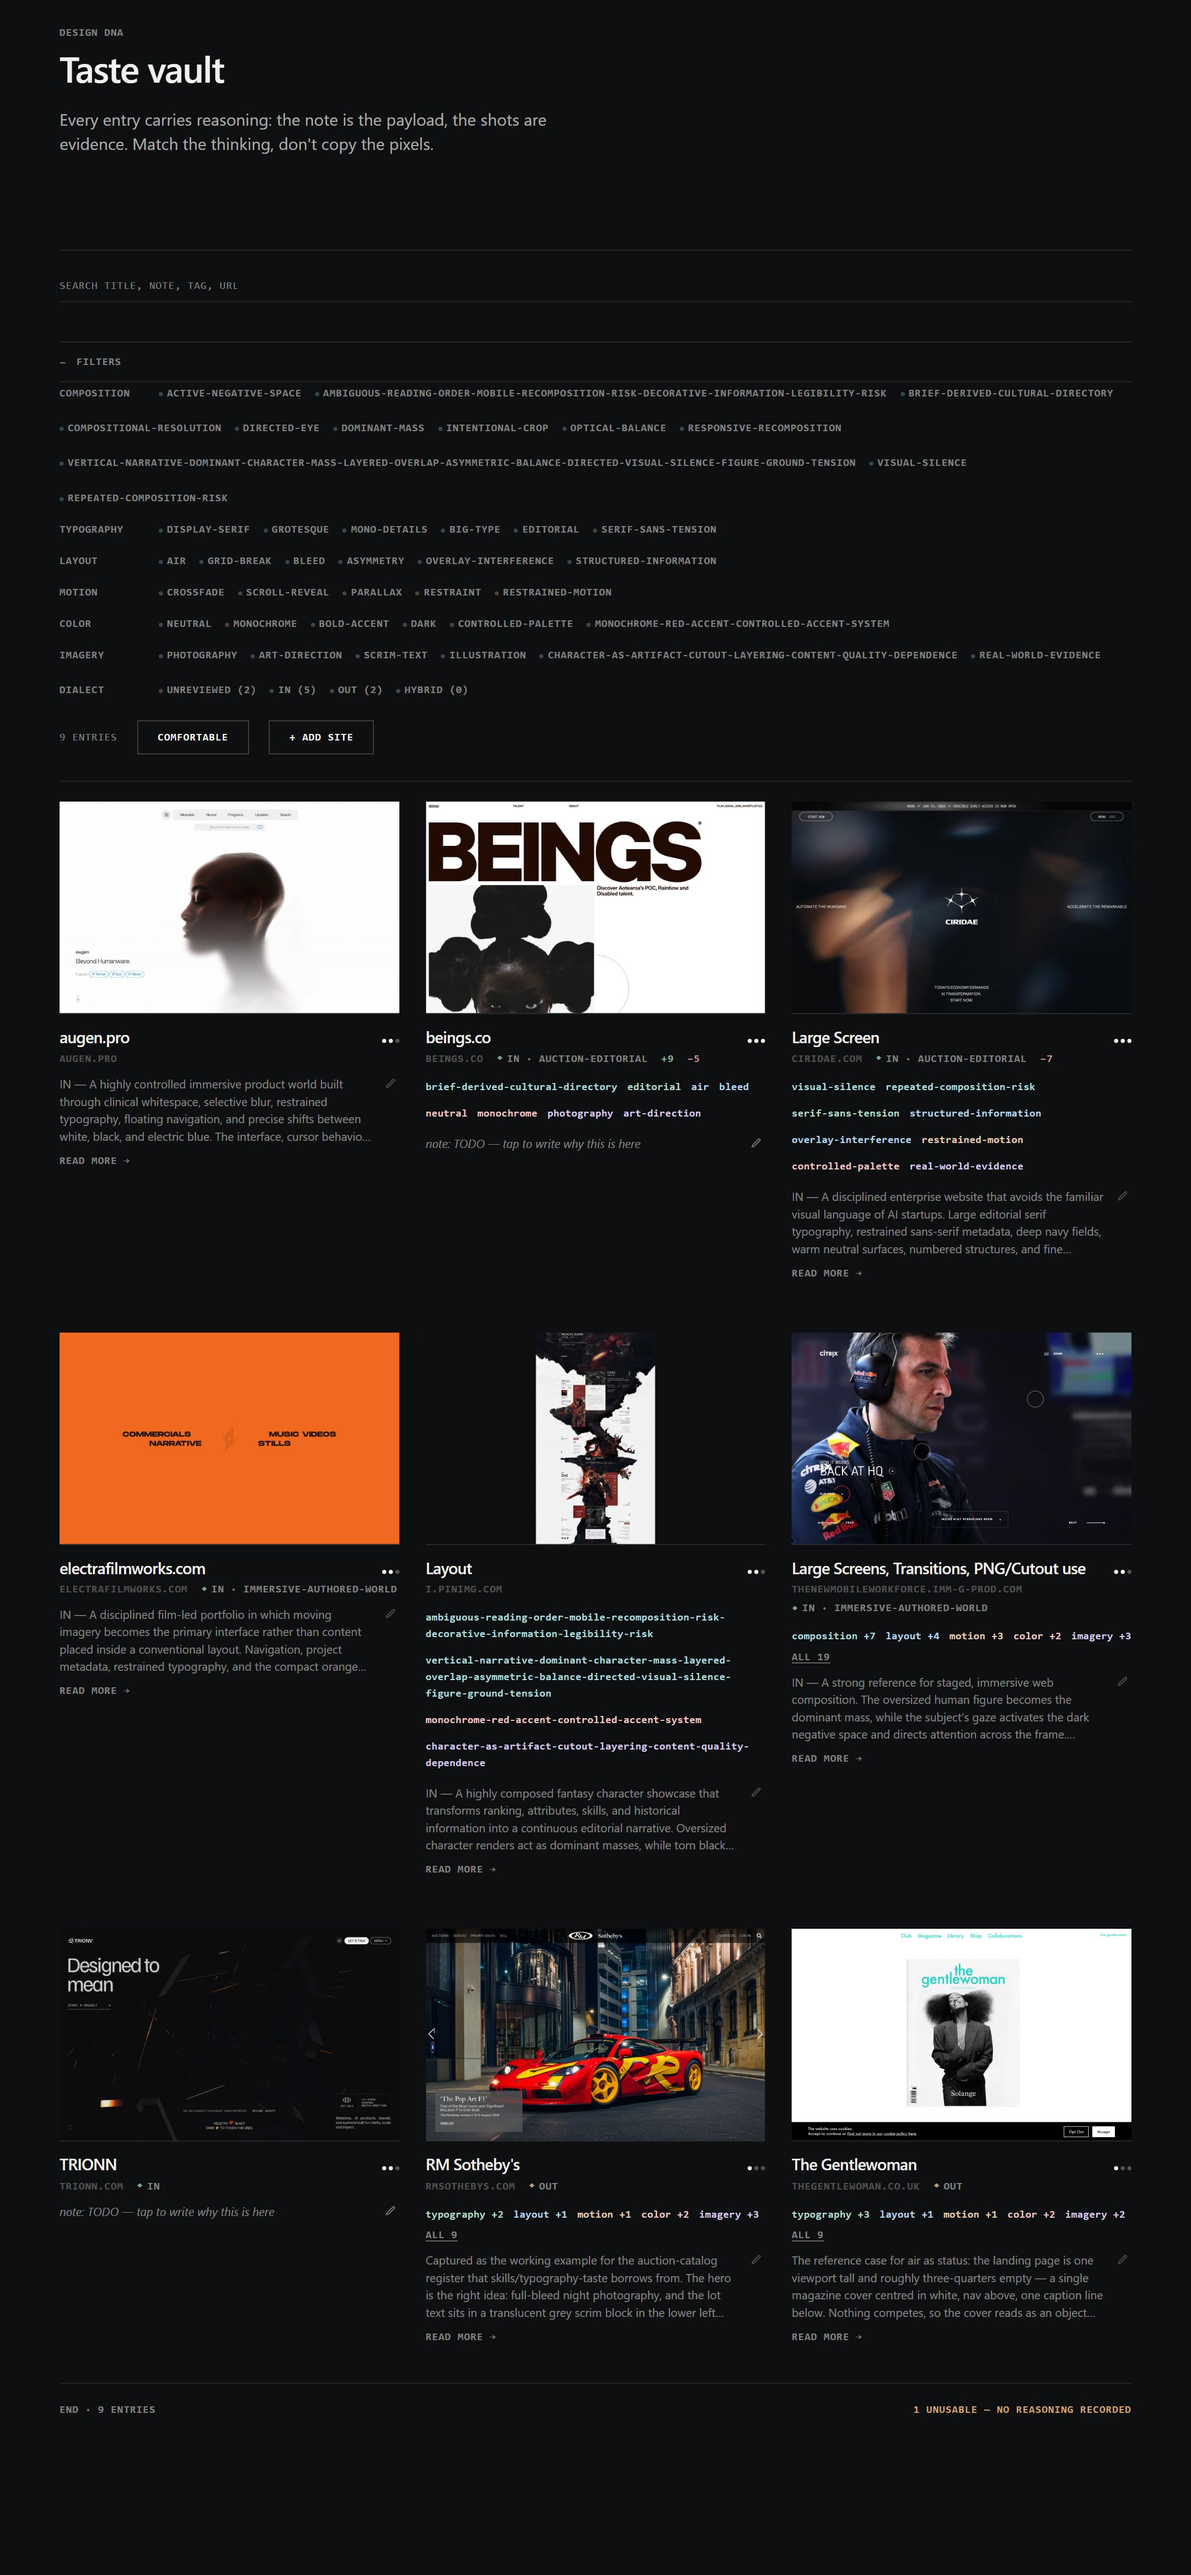
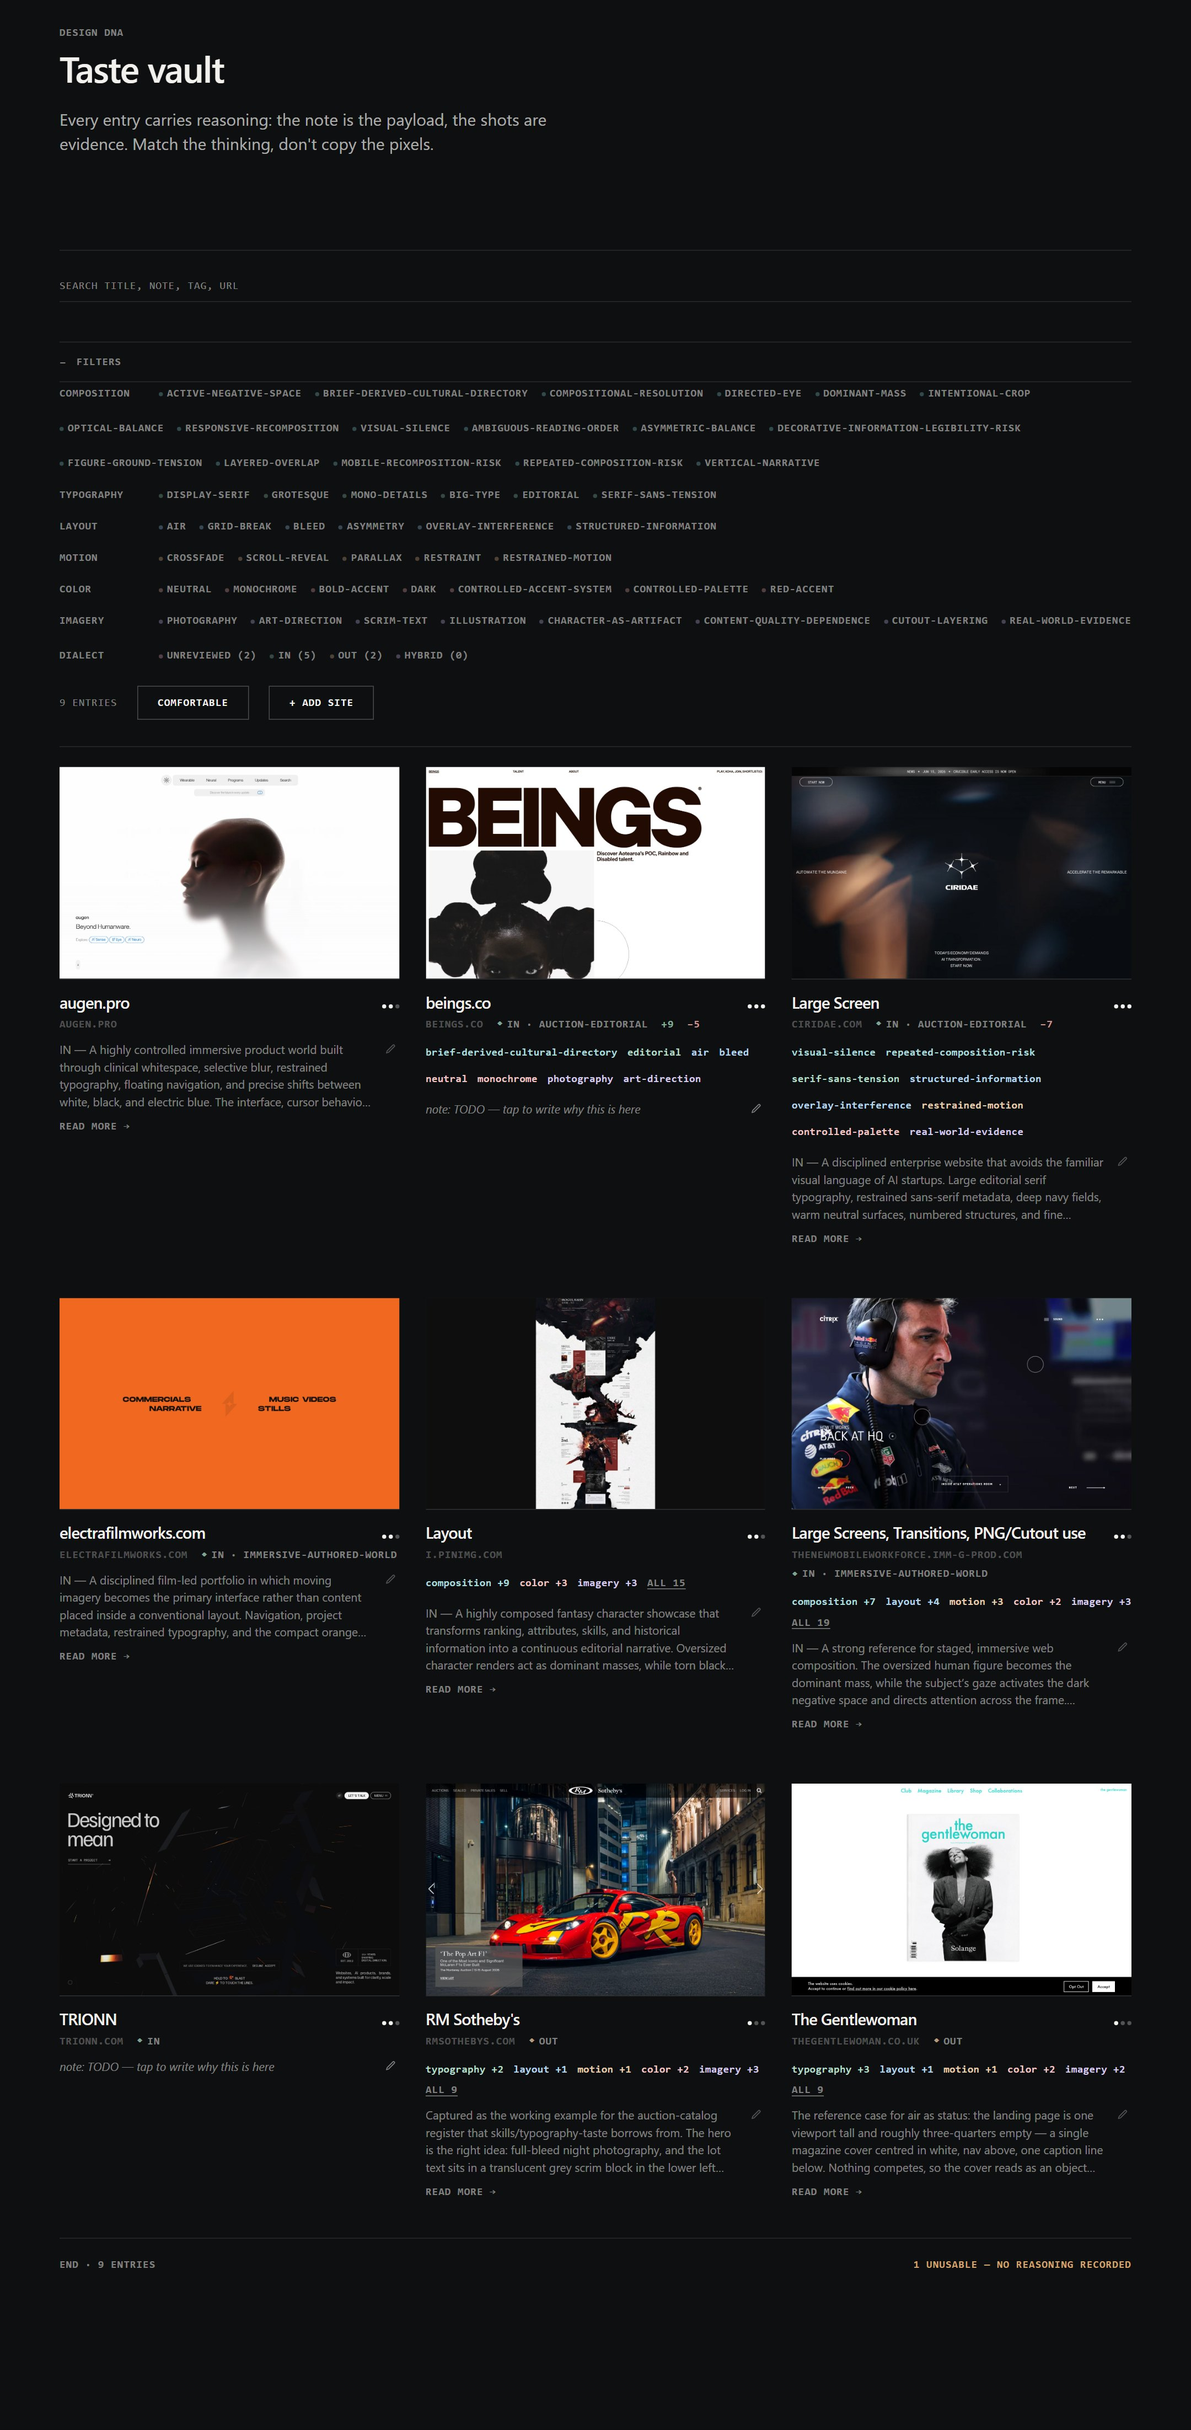
split sentence-tags + guard the tag input
Four tags on i-pinimg-com-736x-… were whole sentences, not terms — up to 123
characters — and two had been promoted into the composition vocabulary, where a
single unbreakable token overflowed the filter row.

Split at their concept boundaries, nothing discarded:
- 123ch -> vertical-narrative · dominant-mass · layered-overlap ·
  asymmetric-balance · visual-silence · figure-ground-tension
- 88ch  -> ambiguous-reading-order · mobile-recomposition-risk ·
  decorative-information-legibility-risk
- 64ch  -> character-as-artifact · cutout-layering · content-quality-dependence
- 46ch  -> monochrome · red-accent · controlled-accent-system

The two oversized entries are removed from vocab.json. The split parts are NOT
auto-promoted: vocabulary growth stays an explicit human act, so they sit on the
entry as pending vocab and the proposals bar will offer them. Longest tag anywhere
is now 38 characters.

Root cause fixed in the input, not just the data: a phrase is split at its spaces,
and a single unbreakable over-long token is refused with the reason stated rather
than silently accepted. A refusal no longer gets overwritten by a misleading "type
a tag first". Two checks added.

247 passing, 0 failures.

diff --git a/vault/index.html b/vault/index.html
@@ -2489,12 +2489,44 @@ function smartTagBox(entry) {
     });
   };
 
+  /* A tag is a term, not a sentence. Without this the box happily accepted
+     "vertical narrative dominant character mass layered overlap …" as ONE
+     123-character tag, which then went into the vocabulary and broke the filter
+     row. Split on commas AND on runs of whitespace-turned-hyphens beyond a
+     sensible length, and say what happened. */
+  const TAG_MAX = 36;
+
   const commit = () => {
     const forced = select.value;
-    const raw = input.value.split(',').map(slugTag).filter(Boolean);
+    const pieces = input.value.split(',').map((s) => s.trim()).filter(Boolean);
+    const raw = [];
+    let autoSplit = 0;
+    let refused = 0;
+    for (const piece of pieces) {
+      const slug = slugTag(piece);
+      if (slug.length <= TAG_MAX) { if (slug) raw.push(slug); continue; }
+      /* Too long to be one term. If the author typed spaces, those are the seams:
+         split there. If they typed one unbroken monster, refuse it rather than
+         guess where the words are. */
+      const words = piece.trim().split(/\s+/).filter(Boolean);
+      if (words.length > 1) {
+        words.map(slugTag).filter(Boolean).forEach((w) => raw.push(w));
+        autoSplit += 1;
+      } else {
+        refused += 1;
+        toast(`"${slug.slice(0, 28)}…" is ${slug.length} characters — that is a sentence, not a tag. `
+          + `Separate the terms with commas or spaces.`, 'bad', 12000);
+      }
+    }
     const seen = new Set();
     const batch = raw.filter((t) => (seen.has(t) ? false : seen.add(t)));
-    if (!batch.length) { toast('Type a tag first — commas separate several.', 'warn', 4000); input.focus(); return; }
+    if (!batch.length) {
+      // Don't replace a refusal reason with a misleading "type something".
+      if (!refused) toast('Type a tag first — commas separate several.', 'warn', 4000);
+      input.focus();
+      return;
+    }
+    if (autoSplit) toast(`Split ${autoSplit} over-long entr${autoSplit === 1 ? 'y' : 'ies'} at the spaces.`, 'warn', 6000);
 
     const landed = {};
     const unsortedNow = [];
